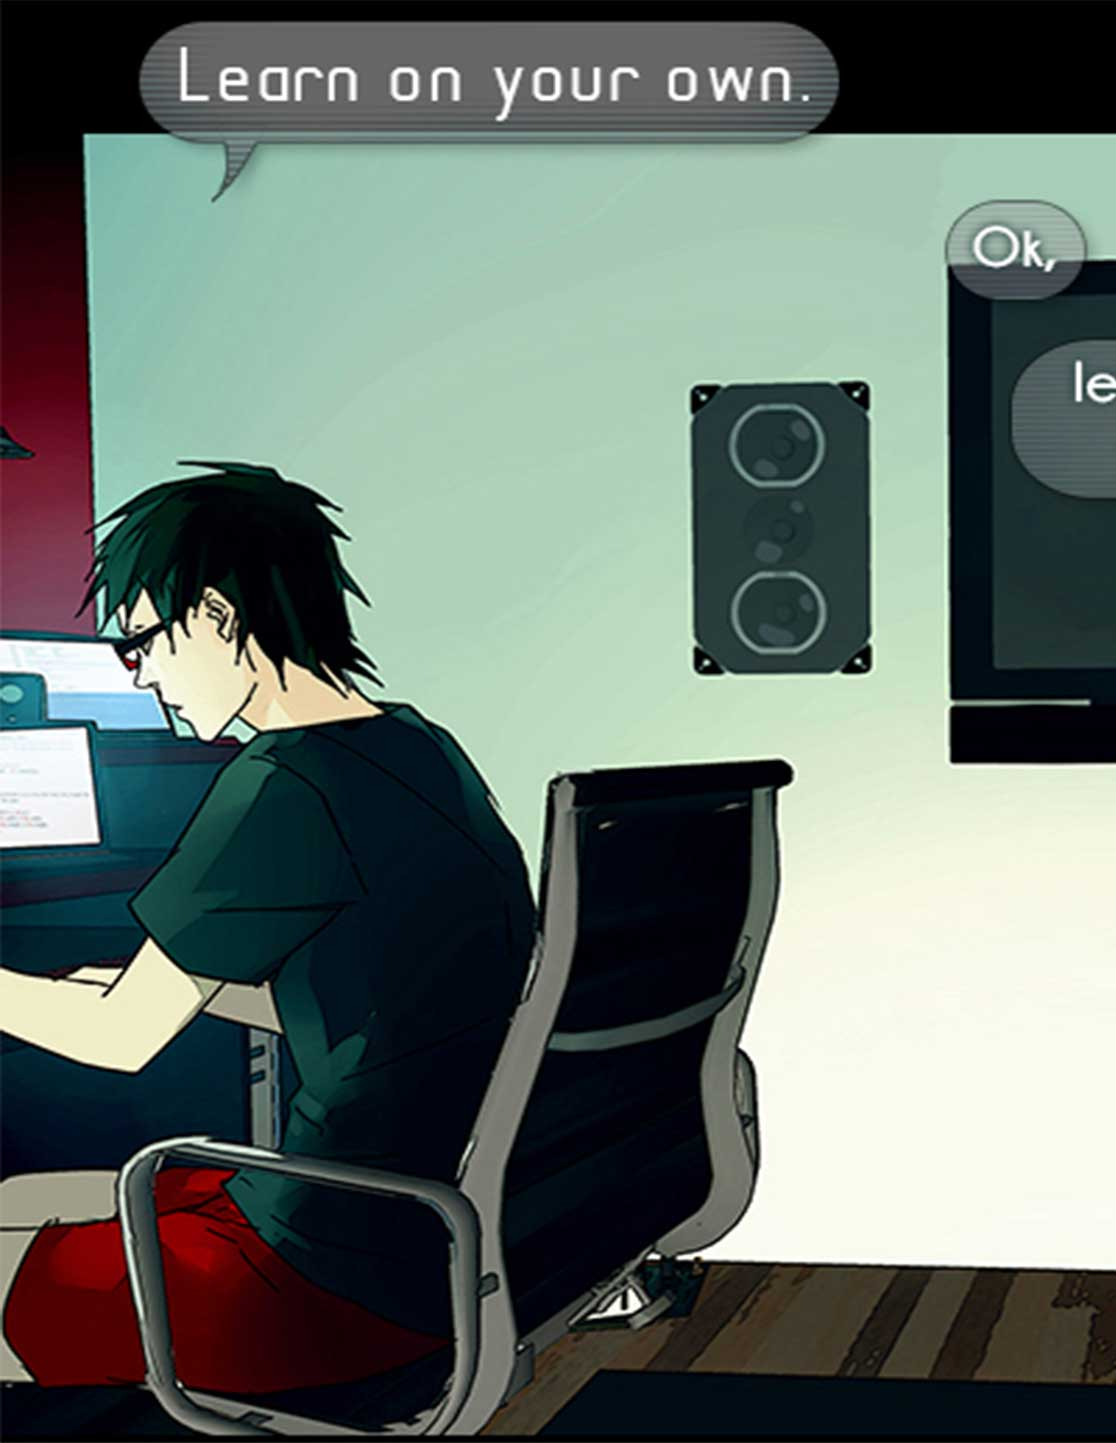
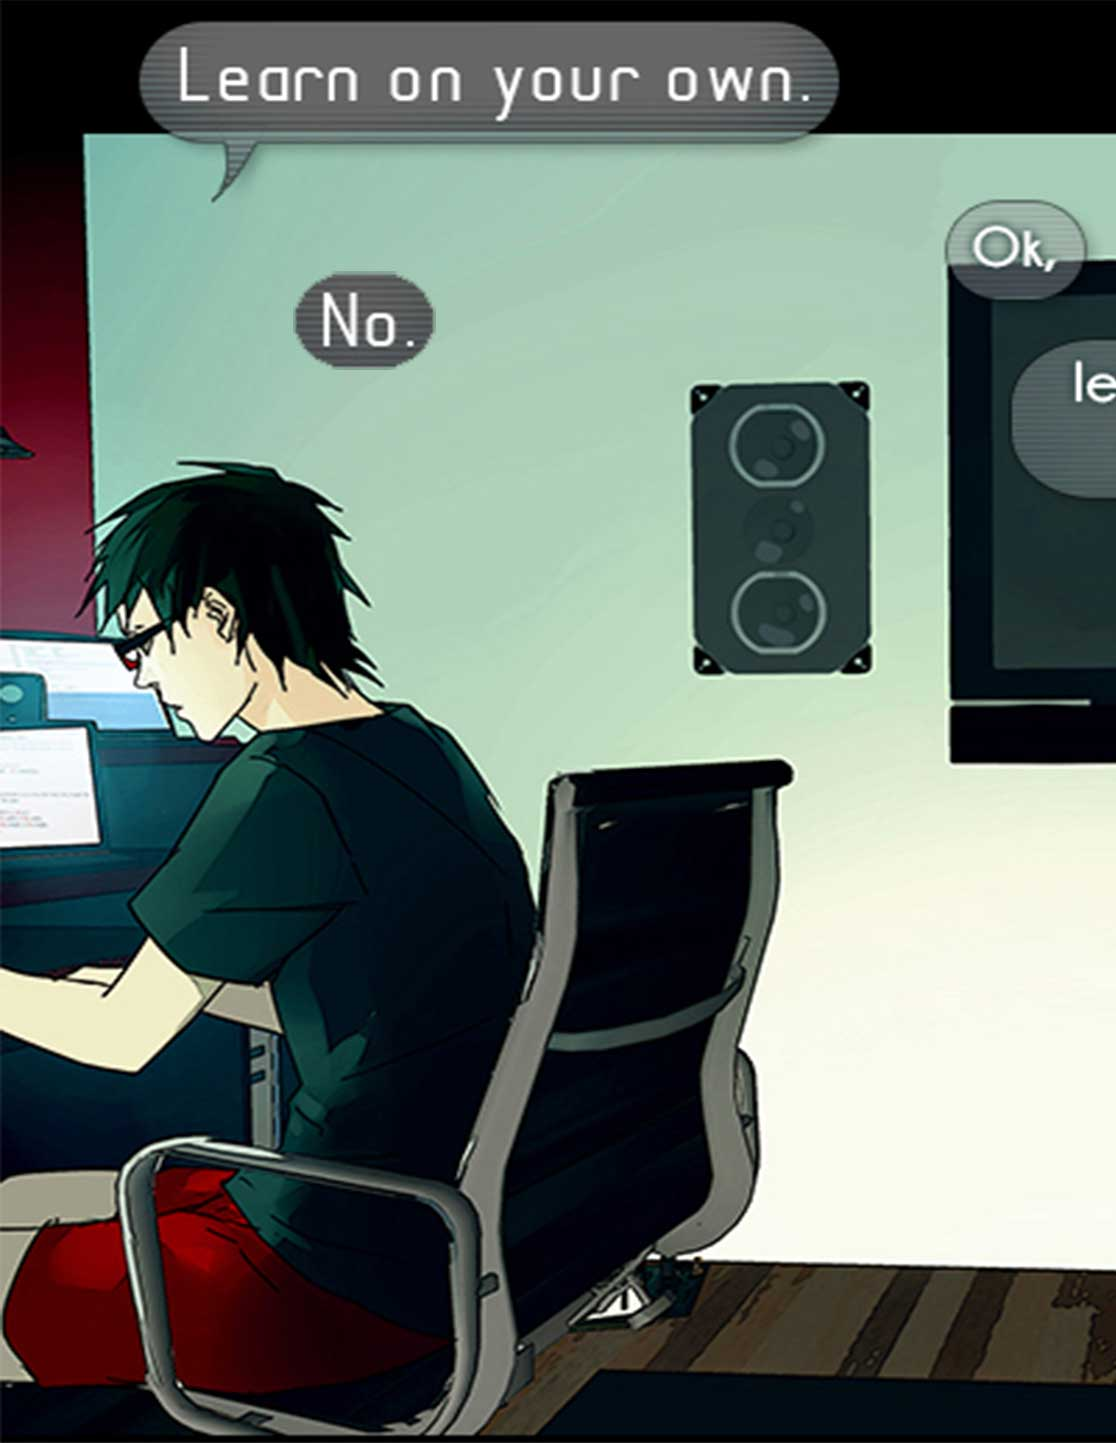
page 14 & 15

Changed region(s): [[0.2437, 0.1871, 0.3961, 0.2807]]

diff --git a/manuscript/page-14/style.css b/manuscript/page-14/style.css
@@ -1,0 +1,9 @@
+body {
+    background-image: url(//raw.githubusercontent.com/marvindanig/fisheye-placebo-varsity/master/assets/images/14.jpg);
+}
+
+blockquote.speech {
+    position: absolute;
+    left: 5vw;
+    bottom: 5vw;
+}

diff --git a/manuscript/page-15/style.css b/manuscript/page-15/style.css
@@ -1,0 +1,9 @@
+body {
+    background-image: url(//raw.githubusercontent.com/marvindanig/fisheye-placebo-varsity/master/assets/images/15.jpg);
+}
+
+blockquote.speech {
+    position: absolute;
+    left: 5vw;
+    bottom: 5vw;
+}
